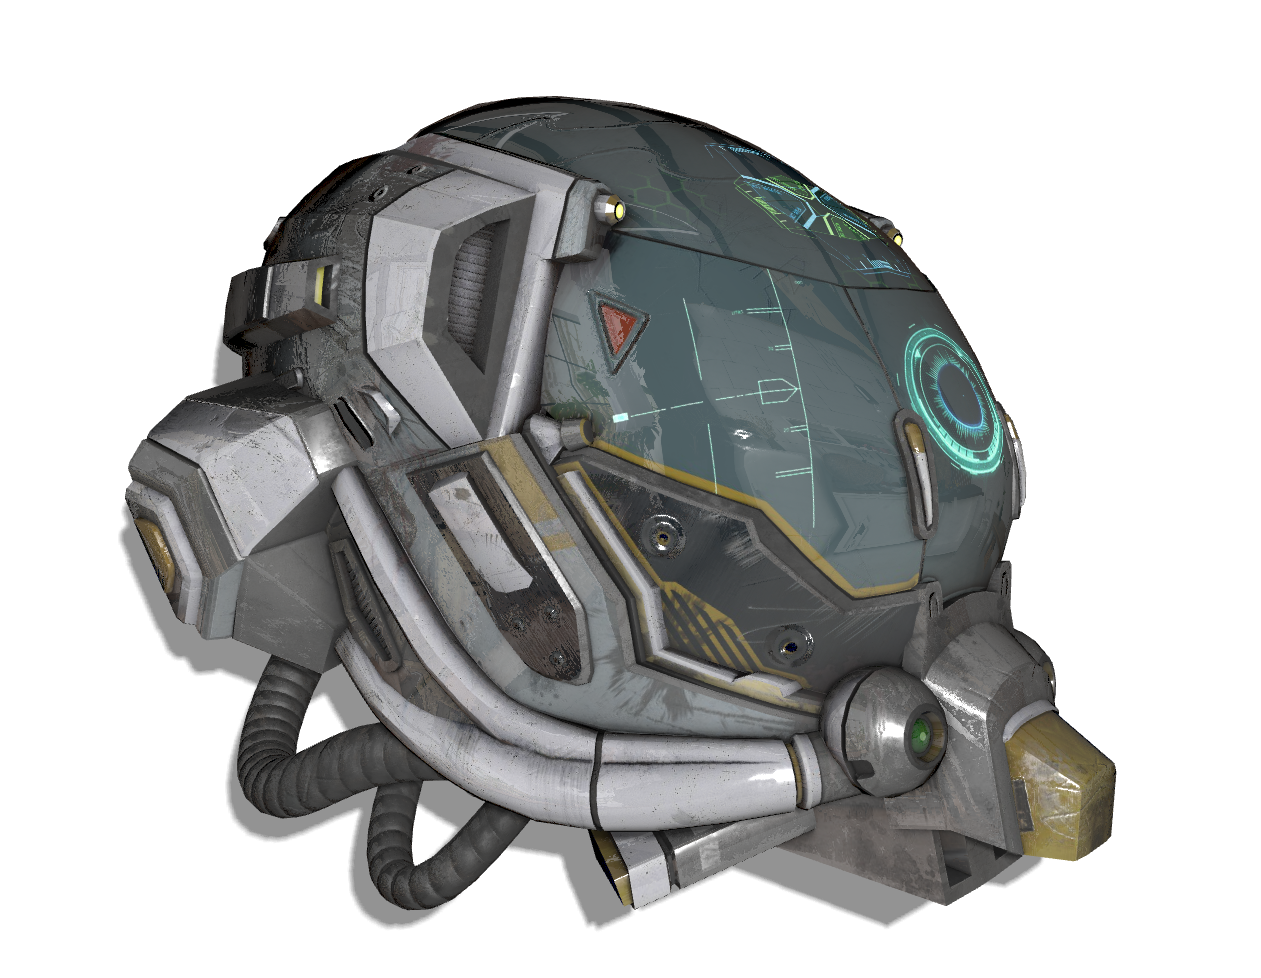
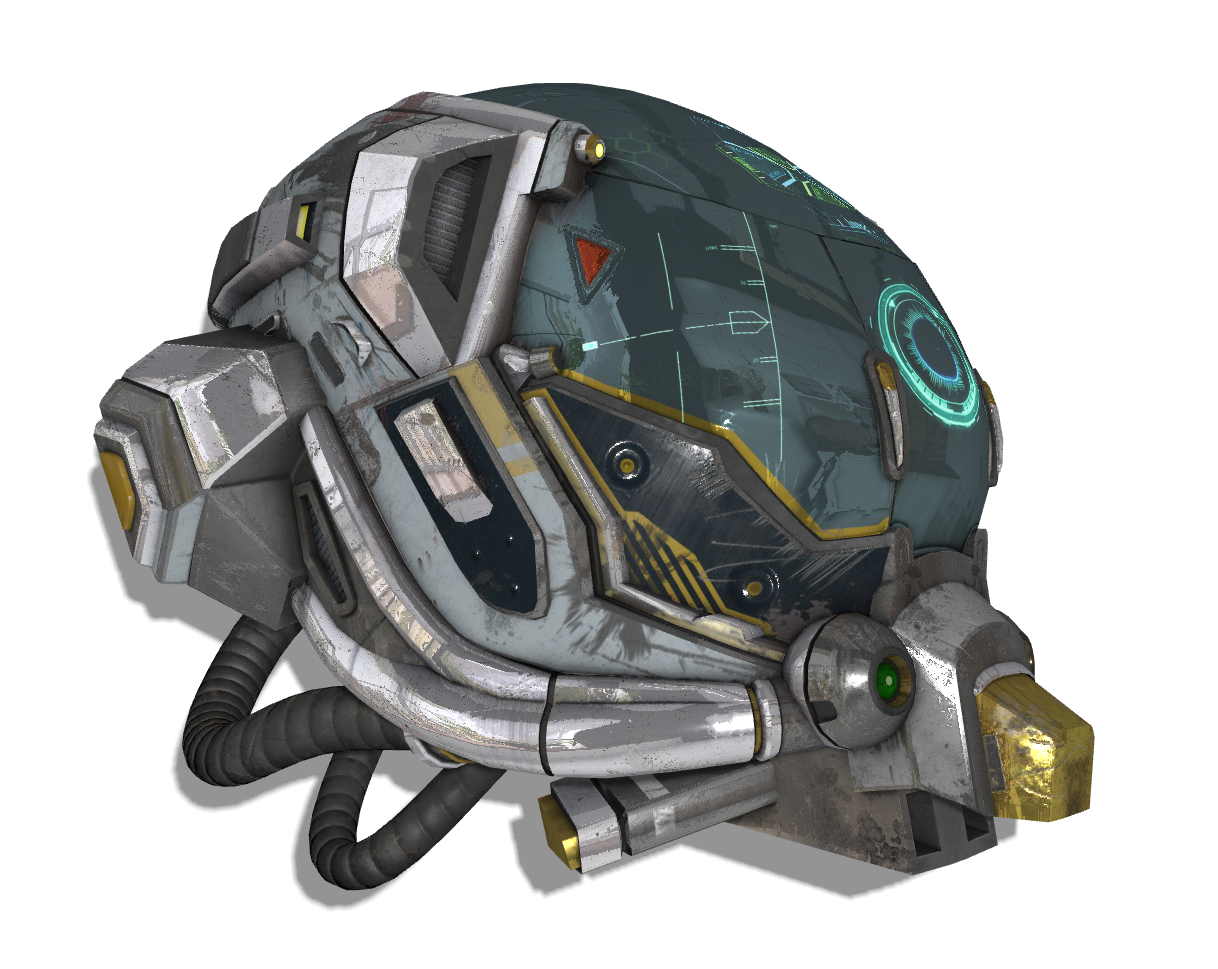
Fixed wrong metallic map and introduced mapmip filtering for environment map

diff --git a/src/renderer/cubemaptexture.cpp b/src/renderer/cubemaptexture.cpp
@@ -2,6 +2,10 @@
 #include "errors.h"
 #include "cubemaptexture.h"
 
+#ifndef GL_TEXTURE_MAX_LEVEL
+    #define GL_TEXTURE_MAX_LEVEL 0x813D
+#endif
+
 CubemapTexture::CubemapTexture()
 {
 }
@@ -28,6 +32,11 @@ void CubemapTexture::bind(GLenum textureId)
 {
     glActiveTexture(textureId);
     glBindTexture(GL_TEXTURE_CUBE_MAP, texture);
+}
+
+int CubemapTexture::getMaxMipLevel() const
+{
+    return static_cast<int>(std::floor(std::log2(std::max(width, height)))) + 1;
 }
 
 void CubemapTexture::setImage(const Image &image, int side)
@@ -67,6 +76,9 @@ void CubemapTexture::setImage(const Image &image, int side)
             break;
     }
 
+    width   = image.width;
+    height  = image.height;
+
     glTexImage2D(side,
                 0,
                 internalFormat,
@@ -78,8 +90,11 @@ void CubemapTexture::setImage(const Image &image, int side)
                 image.getPixels());
     glCheckError();
 
-    glTexParameteri(GL_TEXTURE_CUBE_MAP, GL_TEXTURE_MAG_FILTER, GL_LINEAR);
-    glTexParameteri(GL_TEXTURE_CUBE_MAP, GL_TEXTURE_MIN_FILTER, GL_LINEAR);
+    glGenerateMipmap(GL_TEXTURE_CUBE_MAP);
+    glCheckError();
+
+    glTexParameteri(GL_TEXTURE_CUBE_MAP, GL_TEXTURE_MAG_FILTER, GL_LINEAR_MIPMAP_LINEAR);
+    glTexParameteri(GL_TEXTURE_CUBE_MAP, GL_TEXTURE_MIN_FILTER, GL_LINEAR_MIPMAP_LINEAR);
     glTexParameteri(GL_TEXTURE_CUBE_MAP, GL_TEXTURE_WRAP_S, GL_CLAMP_TO_EDGE);
     glTexParameteri(GL_TEXTURE_CUBE_MAP, GL_TEXTURE_WRAP_T, GL_CLAMP_TO_EDGE);
 }

diff --git a/src/renderer/screenpass.cpp b/src/renderer/screenpass.cpp
@@ -59,6 +59,8 @@ void ScreenPass::init()
 
     locationHasReflectionMap  = glGetUniformLocation(program, "reflectionMap.hasReflectionMap");
     locationReflectionMap     = glGetUniformLocation(program, "reflectionMap.texture");
+    locationMaxMipLevel       = glGetUniformLocation(program, "reflectionMap.maxMipLevel");
+
 }
 
 void ScreenPass::renderPre(const glm::mat4 &view, const glm::mat4 &projection)
@@ -88,7 +90,7 @@ void ScreenPass::setUniforms(const Renderable &renderable) const
     
     glUniformMatrix4fv(locationViewUniform, 1, GL_FALSE, value_ptr(view));
 
-    vec3 lightColor(0.8f);
+    vec3 lightColor(1.0f);
     glUniform3fv(locationLightColor, 1, value_ptr(lightColor));
 
     glUniform3fv(locationBaseColor, 1, value_ptr(material.albedo));
@@ -176,6 +178,9 @@ void ScreenPass::setUniforms(const Renderable &renderable) const
     {
         CubemapTexture& texture = gpuPool.get(material.reflectionMap.value());
         glUniform1i(locationReflectionMap, 7);
+        int maxLevel = texture.getMaxMipLevel();
+        std::cout << "Max level for environment map: " << maxLevel << std::endl;
+        glUniform1i(locationMaxMipLevel, maxLevel);
         texture.bind(GL_TEXTURE7);
     }
     glUniform1i(locationHasReflectionMap, material.reflectionMap.has_value() ? 1 : 0);

diff --git a/src/renderer/cubemaptexture.h b/src/renderer/cubemaptexture.h
@@ -12,11 +12,14 @@ public:
     void setCubemap(const Cubemap& cubemap);
 
     void bind(GLenum textureId);
+    
+    int getMaxMipLevel() const;
 
 private:
     GLuint       texture;
 
     void setImage(const Image& image, int side);
+    int width, height = 0;
 
     CubemapTexture (const CubemapTexture&)              = delete;
     CubemapTexture& operator= (const CubemapTexture&)   = delete;

diff --git a/src/material.h b/src/material.h
@@ -19,7 +19,7 @@ class Material
 public:
     glm::vec3   albedo      = glm::vec3(0.0, 0.5, 0.6);
     float       roughness   = 0.6;
-    float       metallic    = 0.2;
+    float       metallic    = 1.0;
 
     bool        castsShadow = true;
     bool        shaded      = true;

diff --git a/src/renderer/screenpass.h b/src/renderer/screenpass.h
@@ -56,6 +56,7 @@ protected:
 
     GLint locationHasReflectionMap;
     GLint locationReflectionMap;
+    GLint locationMaxMipLevel;
 
     GLint locationTexOffset;
     GLint locationTexScale;
